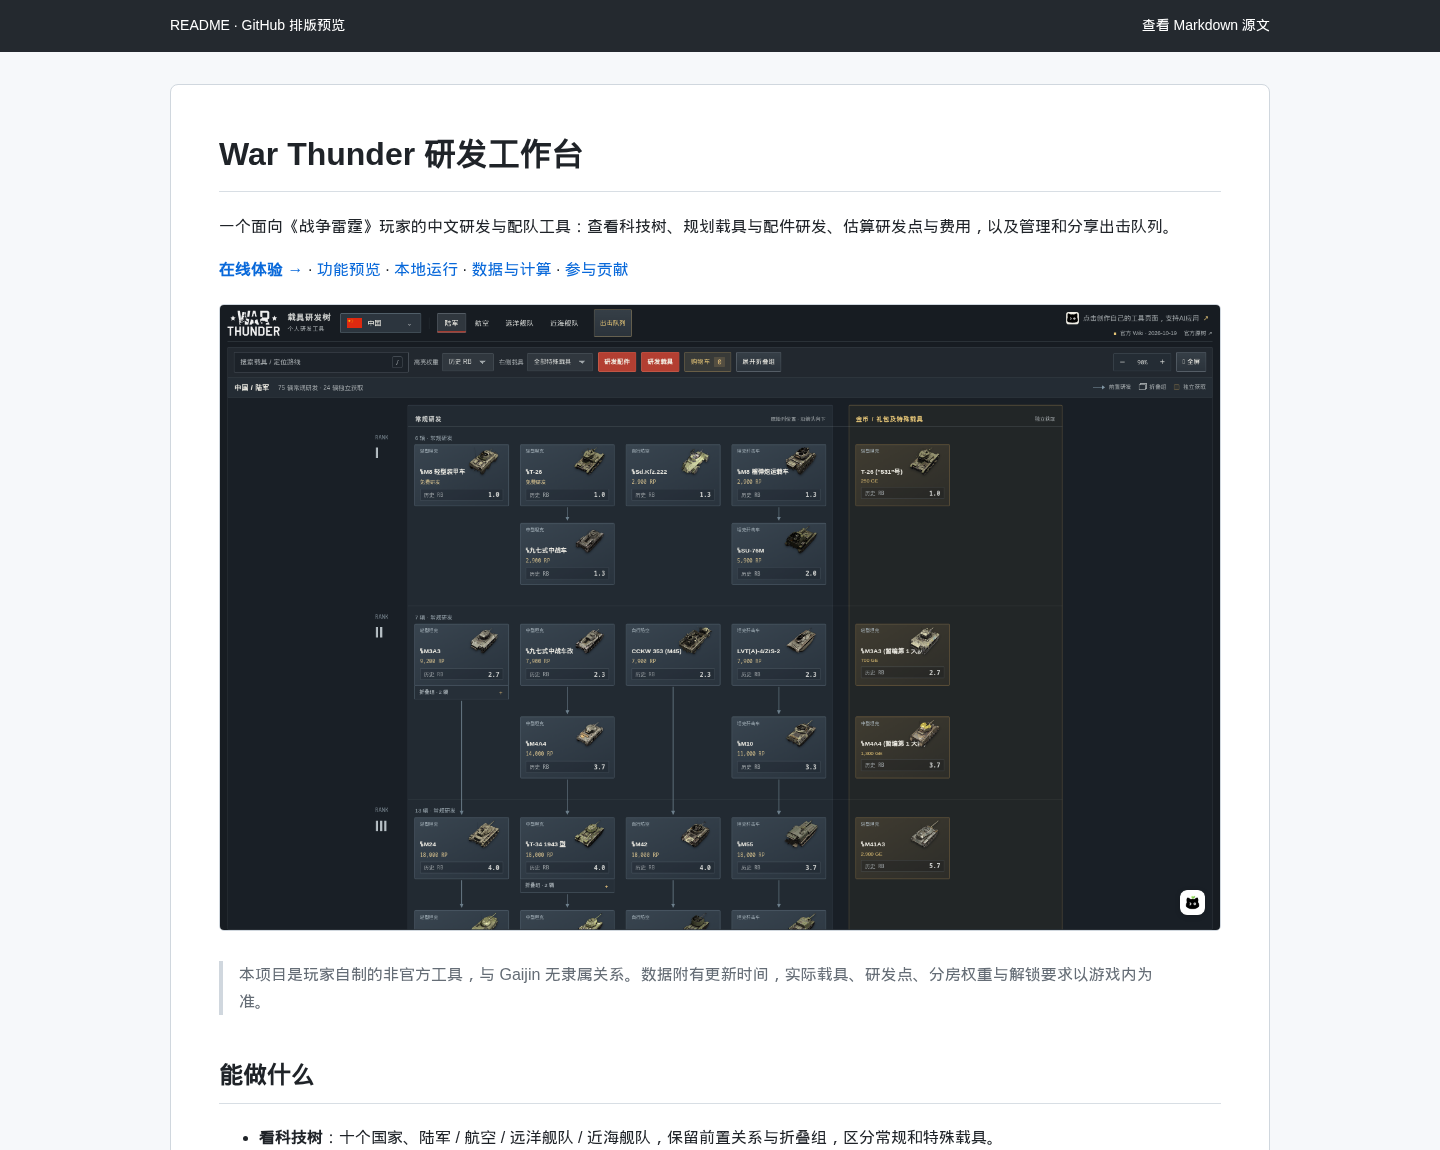
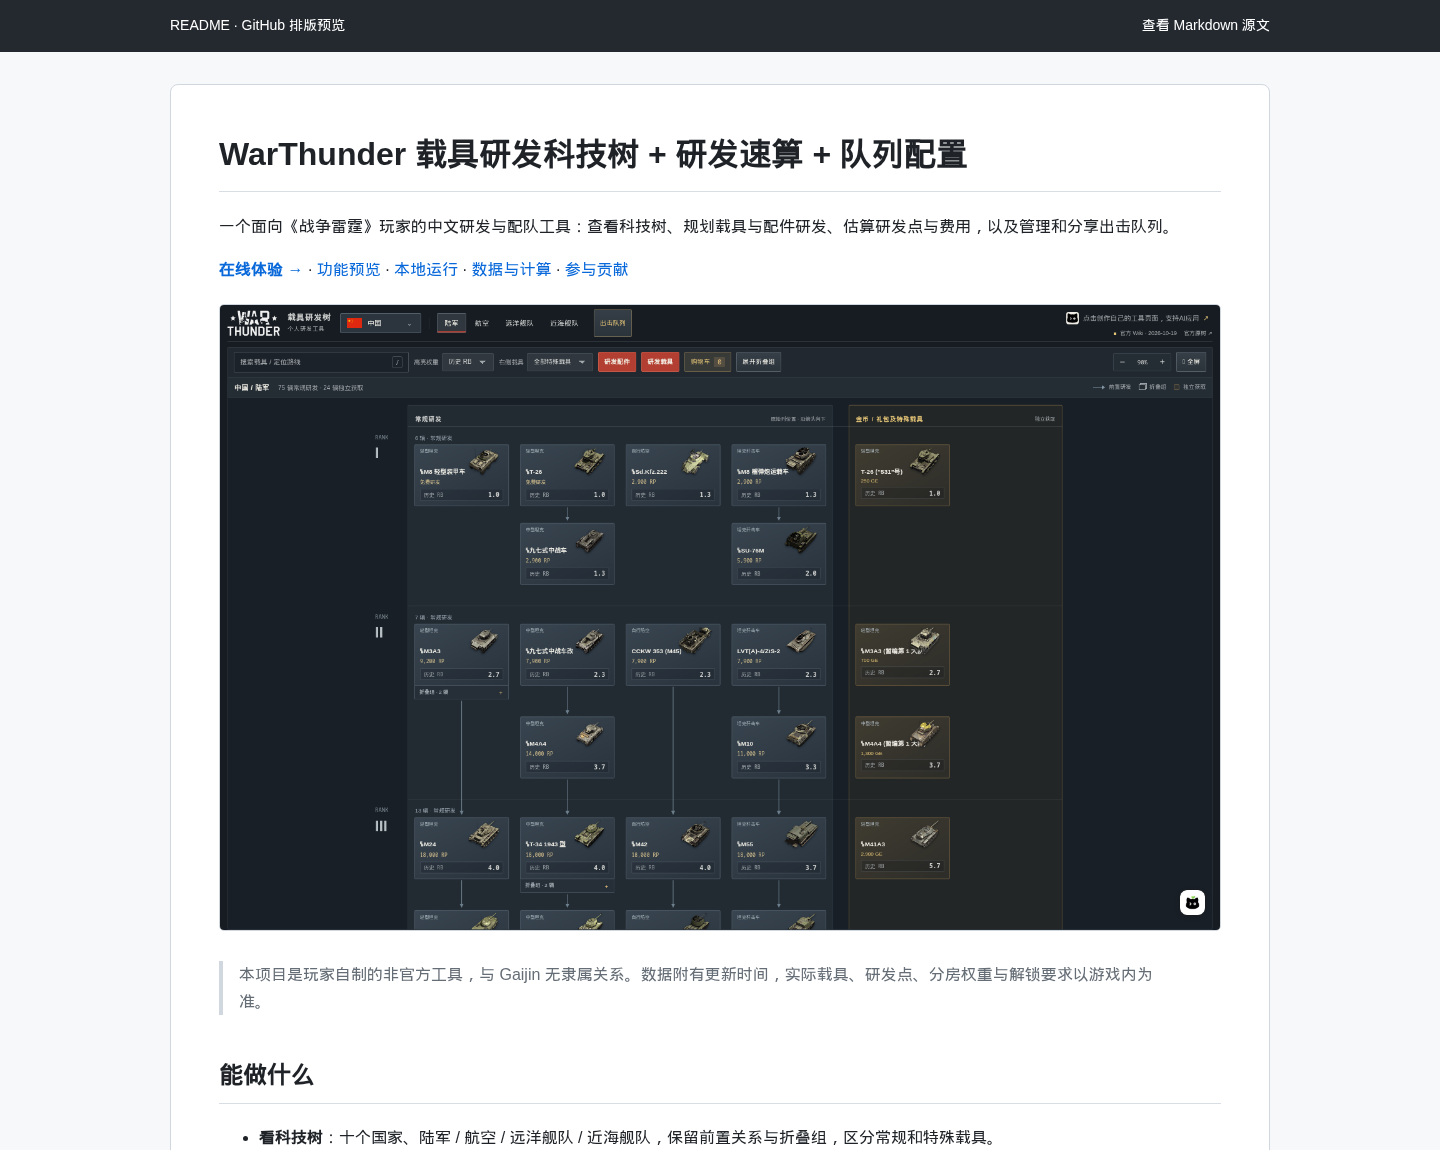
docs: update project title in README and preview

Changed region(s): [[0.1875, 0.1217, 0.6875, 0.1522]]

diff --git a/docs/readme-preview.html b/docs/readme-preview.html
@@ -1,4 +1,4 @@
-<!doctype html><html lang="zh-CN"><meta charset="utf-8"><meta name="viewport" content="width=device-width,initial-scale=1"><title>README 预览 · War Thunder 研发工作台</title><style>*{box-sizing:border-box}html{scroll-behavior:smooth}body{margin:0;background:#f6f8fa;color:#1f2328;font:16px/1.7 -apple-system,BlinkMacSystemFont,"Segoe UI","Microsoft YaHei",sans-serif}.bar{background:#24292f;color:#fff;padding:14px max(24px,calc((100vw - 1100px)/2));font-size:14px}.bar a{color:#fff;float:right}main{max-width:1100px;margin:32px auto 64px;padding:42px 48px;border:1px solid #d0d7de;border-radius:8px;background:#fff}h1{font-size:32px;margin-top:0}h1,h2{padding-bottom:.3em;border-bottom:1px solid #d8dee4}h2{font-size:24px;margin-top:40px}h3{font-size:20px;margin-top:30px}h4{font-size:17px}a{color:#0969da;text-decoration:none}a:hover{text-decoration:underline}img{display:block;width:auto;max-width:100%;height:auto;border:1px solid #d0d7de;border-radius:5px;margin:20px auto 30px}blockquote{border-left:4px solid #d0d7de;padding:0 16px;color:#656d76;margin-left:0}pre{padding:18px;background:#f6f8fa;overflow:auto;border-radius:6px;font-size:14px;line-height:1.55}code{font-family:ui-monospace,monospace;background:#eff1f3;padding:2px 5px;border-radius:4px}pre code{padding:0;background:none}table{display:block;border-collapse:collapse;width:100%;overflow:auto;font-size:14px;margin:20px 0}td,th{border:1px solid #d0d7de;padding:8px 12px;text-align:left}tr:nth-child(2n){background:#f6f8fa}li{margin:5px 0}h2,h3,h4{scroll-margin-top:20px}@media(max-width:700px){main{padding:24px 18px;margin:0;border:0;border-radius:0}h1{font-size:27px}.bar{padding:12px 18px;font-size:12px}}</style><div class="bar">README · GitHub 排版预览<a href="../README.md">查看 Markdown 源文</a></div><main><h1 id="war-thunder-研发工作台">War Thunder 研发工作台</h1>
+<!doctype html><html lang="zh-CN"><meta charset="utf-8"><meta name="viewport" content="width=device-width,initial-scale=1"><title>README 预览 · WarThunder 载具研发科技树 + 研发速算 + 队列配置</title><style>*{box-sizing:border-box}html{scroll-behavior:smooth}body{margin:0;background:#f6f8fa;color:#1f2328;font:16px/1.7 -apple-system,BlinkMacSystemFont,"Segoe UI","Microsoft YaHei",sans-serif}.bar{background:#24292f;color:#fff;padding:14px max(24px,calc((100vw - 1100px)/2));font-size:14px}.bar a{color:#fff;float:right}main{max-width:1100px;margin:32px auto 64px;padding:42px 48px;border:1px solid #d0d7de;border-radius:8px;background:#fff}h1{font-size:32px;margin-top:0}h1,h2{padding-bottom:.3em;border-bottom:1px solid #d8dee4}h2{font-size:24px;margin-top:40px}h3{font-size:20px;margin-top:30px}h4{font-size:17px}a{color:#0969da;text-decoration:none}a:hover{text-decoration:underline}img{display:block;width:auto;max-width:100%;height:auto;border:1px solid #d0d7de;border-radius:5px;margin:20px auto 30px}blockquote{border-left:4px solid #d0d7de;padding:0 16px;color:#656d76;margin-left:0}pre{padding:18px;background:#f6f8fa;overflow:auto;border-radius:6px;font-size:14px;line-height:1.55}code{font-family:ui-monospace,monospace;background:#eff1f3;padding:2px 5px;border-radius:4px}pre code{padding:0;background:none}table{display:block;border-collapse:collapse;width:100%;overflow:auto;font-size:14px;margin:20px 0}td,th{border:1px solid #d0d7de;padding:8px 12px;text-align:left}tr:nth-child(2n){background:#f6f8fa}li{margin:5px 0}h2,h3,h4{scroll-margin-top:20px}@media(max-width:700px){main{padding:24px 18px;margin:0;border:0;border-radius:0}h1{font-size:27px}.bar{padding:12px 18px;font-size:12px}}</style><div class="bar">README · GitHub 排版预览<a href="../README.md">查看 Markdown 源文</a></div><main><h1 id="warthunder-载具研发科技树-研发速算-队列配置">WarThunder 载具研发科技树 + 研发速算 + 队列配置</h1>
 <p>一个面向《战争雷霆》玩家的中文研发与配队工具：查看科技树、规划载具与配件研发、估算研发点与费用，以及管理和分享出击队列。</p>
 <p><strong><a href="https://render.qmuse.pub/p/muse/8645013411493394">在线体验 →</a></strong> · <a href="#功能预览">功能预览</a> · <a href="#本地运行">本地运行</a> · <a href="#数据与计算">数据与计算</a> · <a href="#参与贡献">参与贡献</a></p>
 <p><img alt="中国陆军科技树" src="screenshots/tree.png" /></p>

diff --git a/README.md b/README.md
@@ -1,4 +1,4 @@
-# War Thunder 研发工作台
+# WarThunder 载具研发科技树 + 研发速算 + 队列配置
 
 一个面向《战争雷霆》玩家的中文研发与配队工具：查看科技树、规划载具与配件研发、估算研发点与费用，以及管理和分享出击队列。
 
